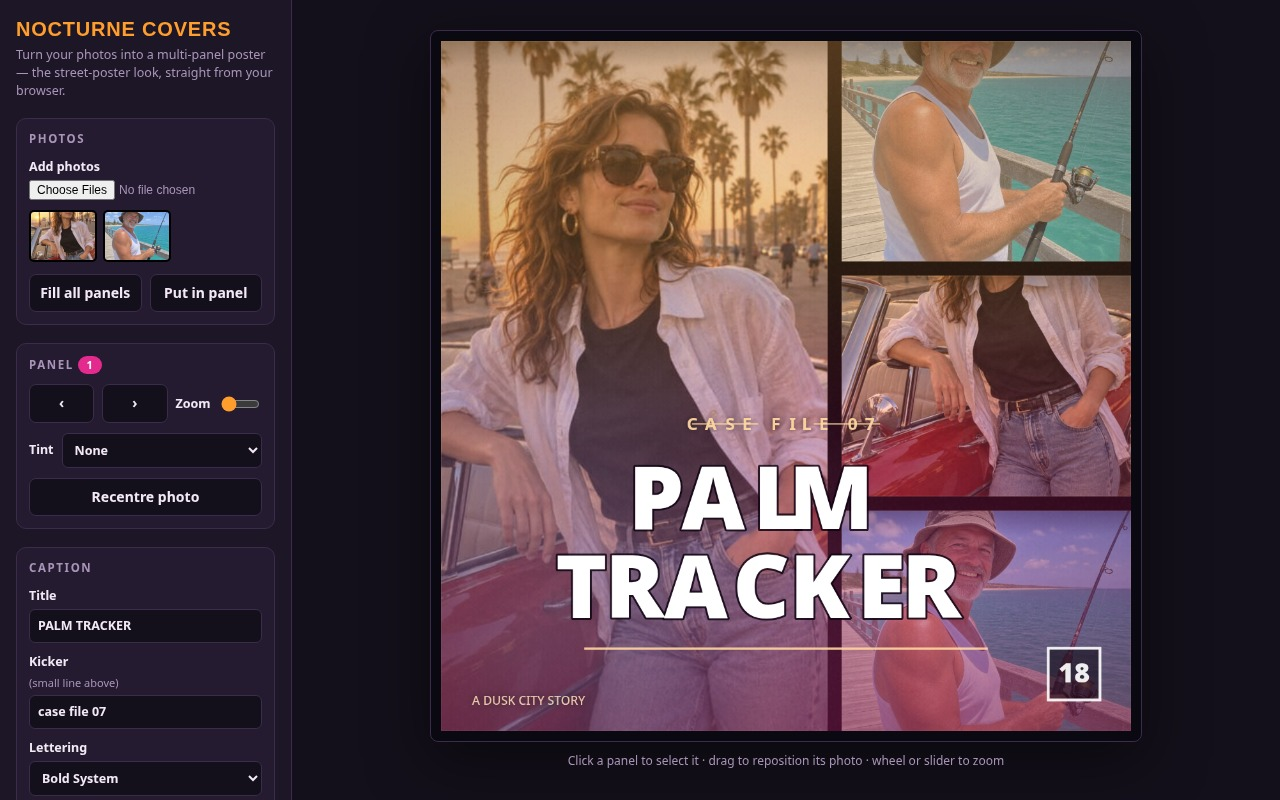
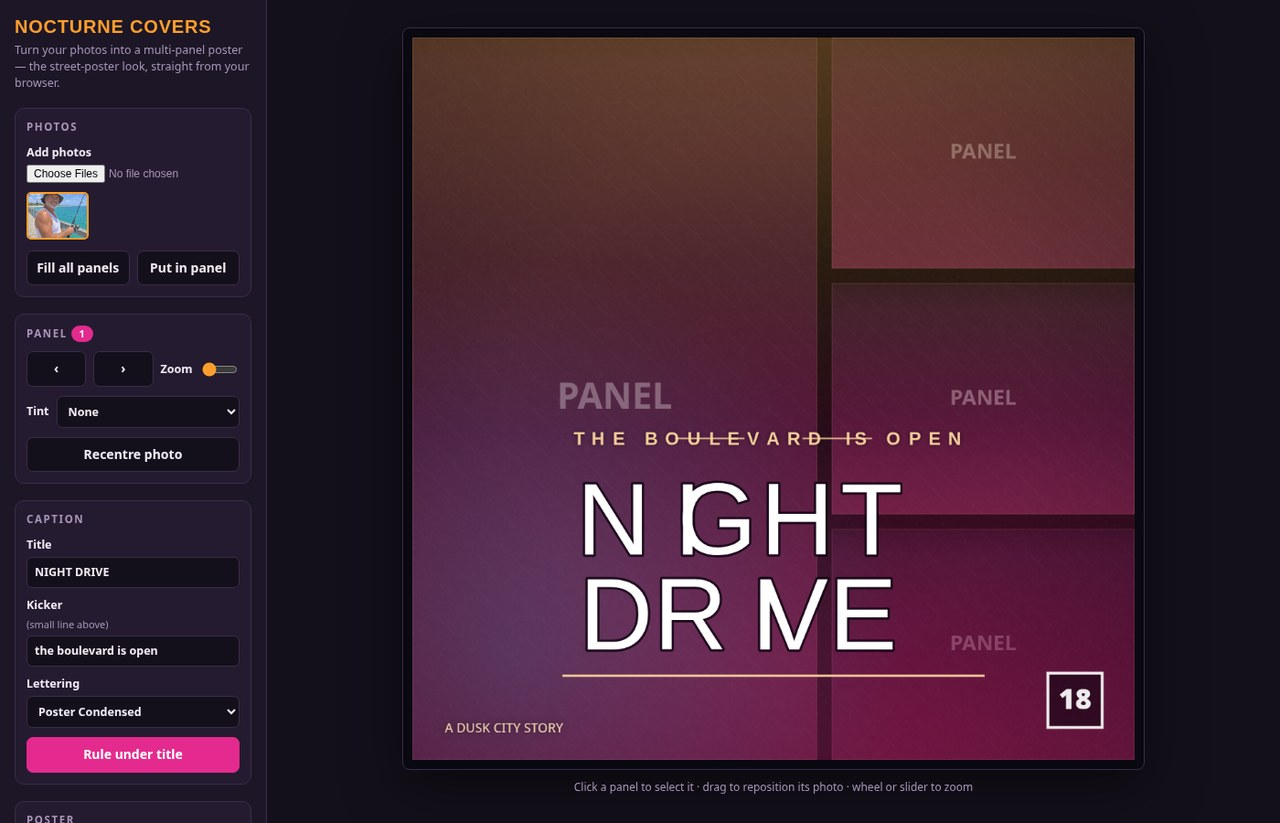
shots: hero shows the tall-hero layout so the panels read, rebuilt from the app

diff --git a/app/src/shots.js b/app/src/shots.js
@@ -20,7 +20,12 @@ export function presetForShot(shot, seed = 1) {
   const layouts = {
     'cover-square': 'triptych',
     'cover-story': 'hero-right',
-    'cover-wide': 'mosaic',
+    // The hero shows the widest-panel layout: on a 16:9 canvas "mosaic" leaves a
+    // single horizontal gutter, so the judge's largest image read as one photo with
+    // a stripe rather than as multi-panel key art. "hero-left" puts a tall hero
+    // beside three stacked panels, so the gutters read at a glance even scaled to
+    // 768x480 in the judge's contact sheet.
+    'cover-wide': 'hero-left',
     editor: 'hero-left',
   };
   const layout = layouts[shot] ?? LAYOUTS[0].id;
